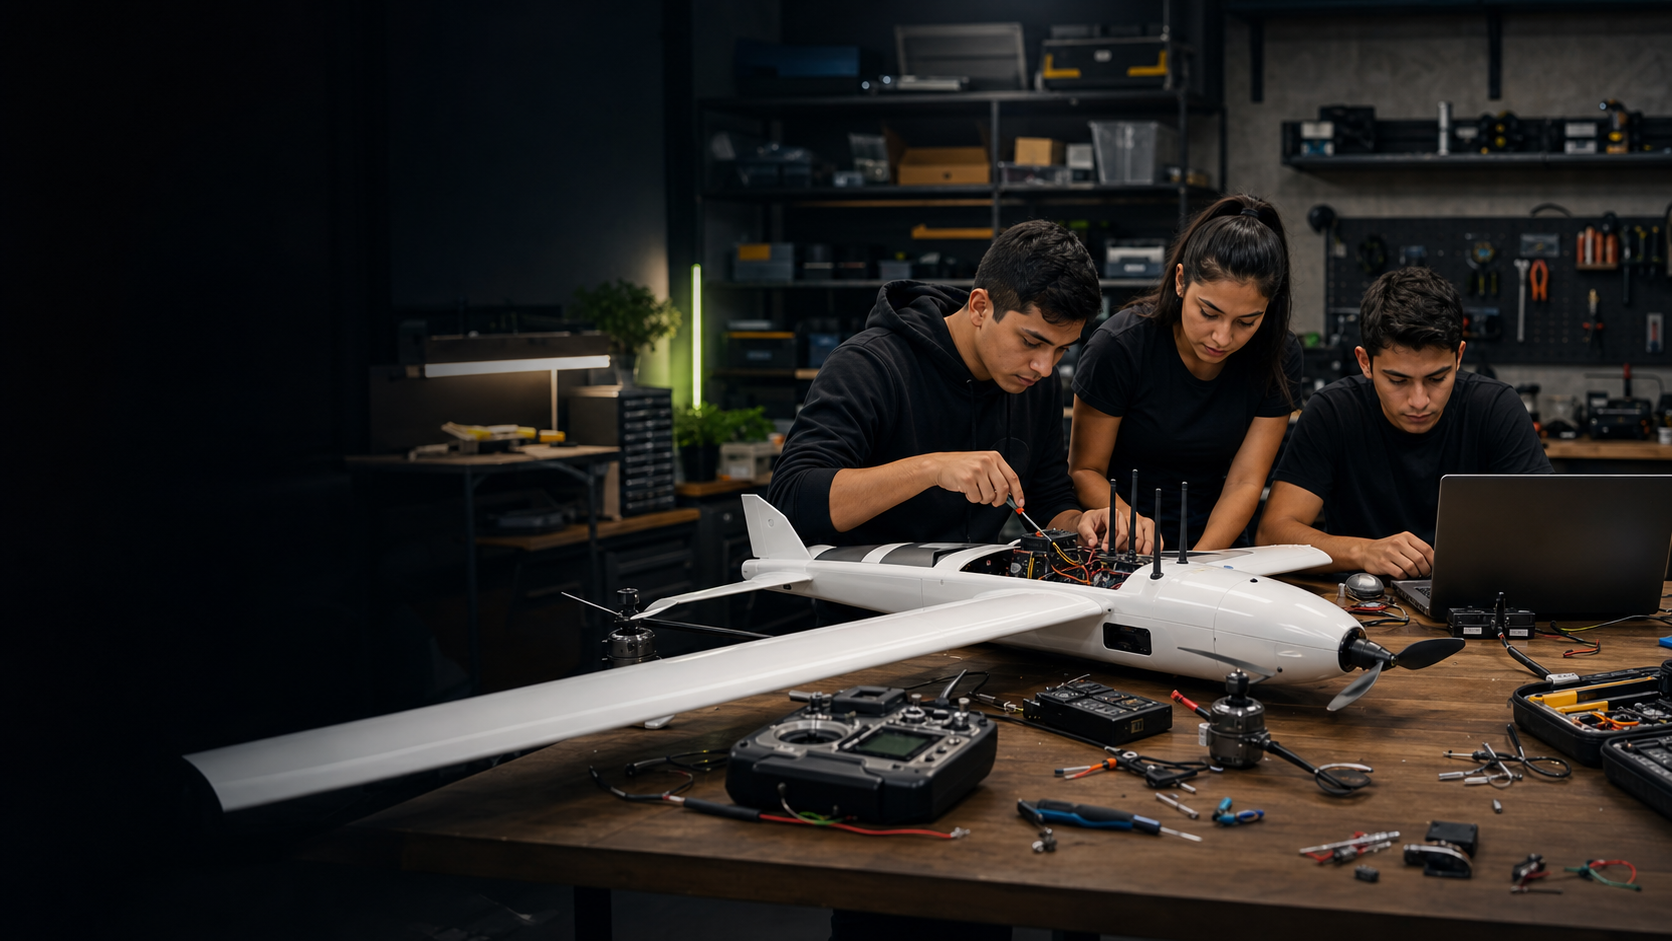
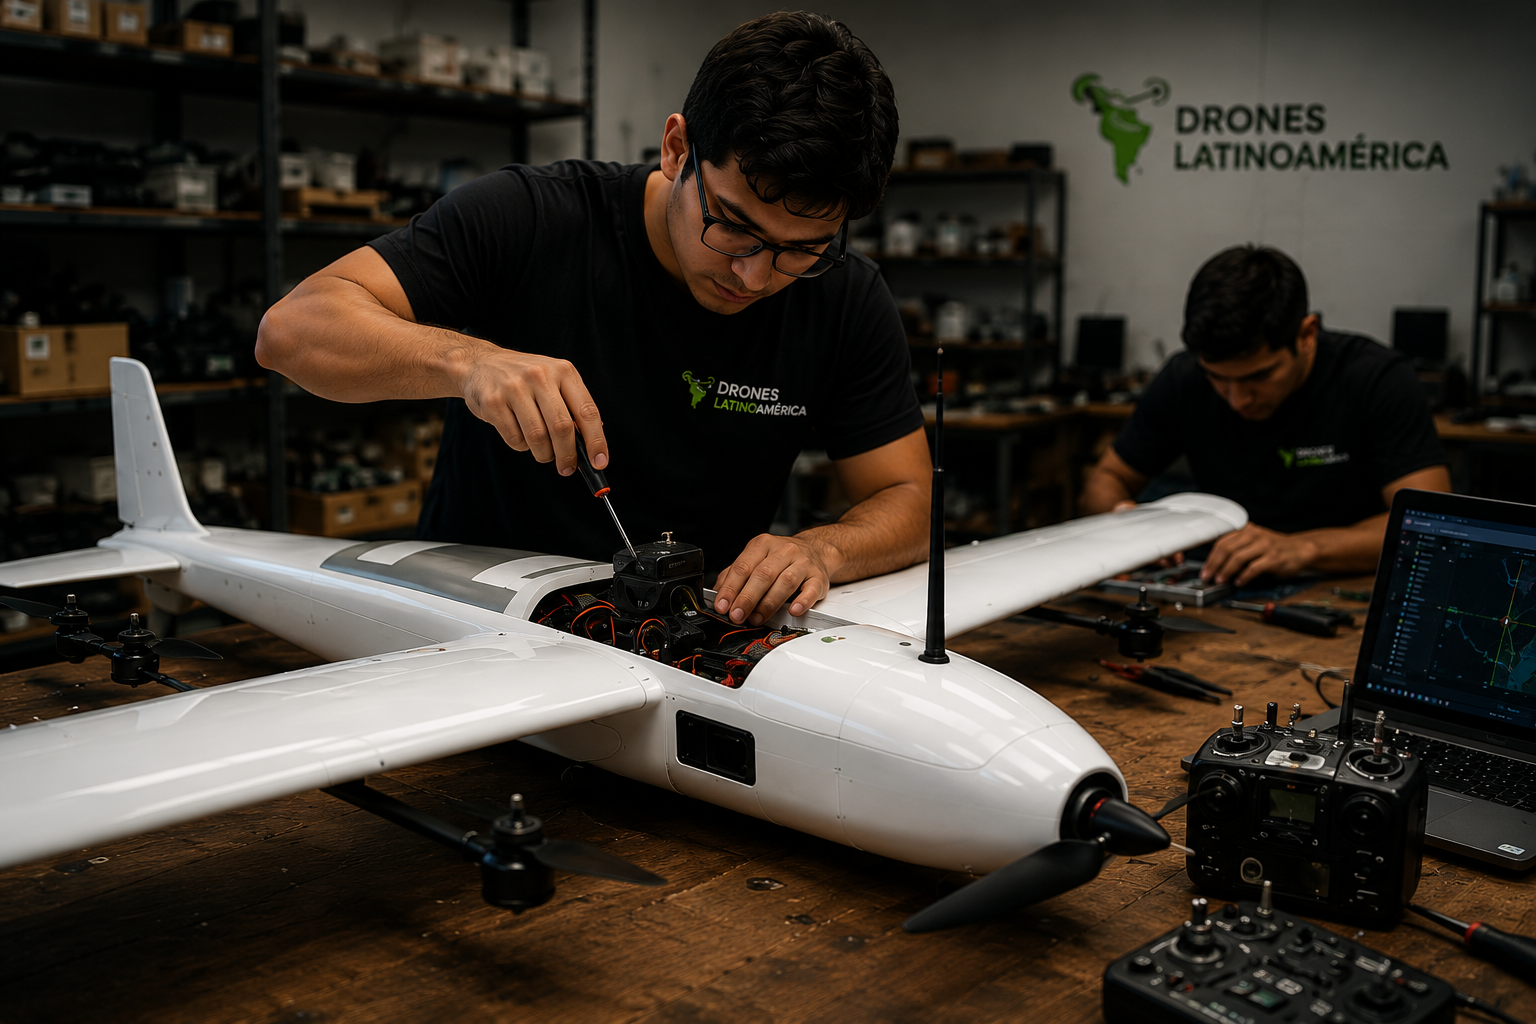
Actualizar pagina Drones Latinoamerica19

diff --git a/index.html b/index.html
@@ -8,7 +8,7 @@
       name="description"
       content="Comunidad de pilotos, constructores e innovadores de drones en Latinoamérica. Cursos, proyectos, foro, eventos, recursos y marketplace."
     />
-    <link rel="preload" href="assets/hero-workshop.png" as="image" />
+    <link rel="preload" href="assets/hero-workshop-una-antenna.png" as="image" />
     <link rel="stylesheet" href="styles.css" />
   </head>
   <body>
@@ -53,7 +53,7 @@
 
     <main>
       <section class="hero" id="inicio">
-        <img class="hero-image" src="assets/hero-workshop.png" alt="Estudiantes trabajando en un dron profesional de ala fija en un taller" />
+        <img class="hero-image" src="assets/hero-workshop-una-antenna.png" alt="Estudiantes trabajando en un dron profesional de ala fija en un taller" />
         <div class="hero-overlay" aria-hidden="true"></div>
         <div class="container hero-content">
           <p class="eyebrow">Bienvenido a Drones Latinoamérica</p>

diff --git a/styles.css b/styles.css
@@ -1853,7 +1853,7 @@ input {
   height: 78px;
   border: 2px solid rgba(126, 211, 33, 0.4);
   border-radius: 50%;
-  background-image: url("assets/hero-workshop.png");
+  background-image: url("assets/hero-workshop-una-antenna.png");
   background-size: 430px auto;
   background-position: 66% 38%;
 }
